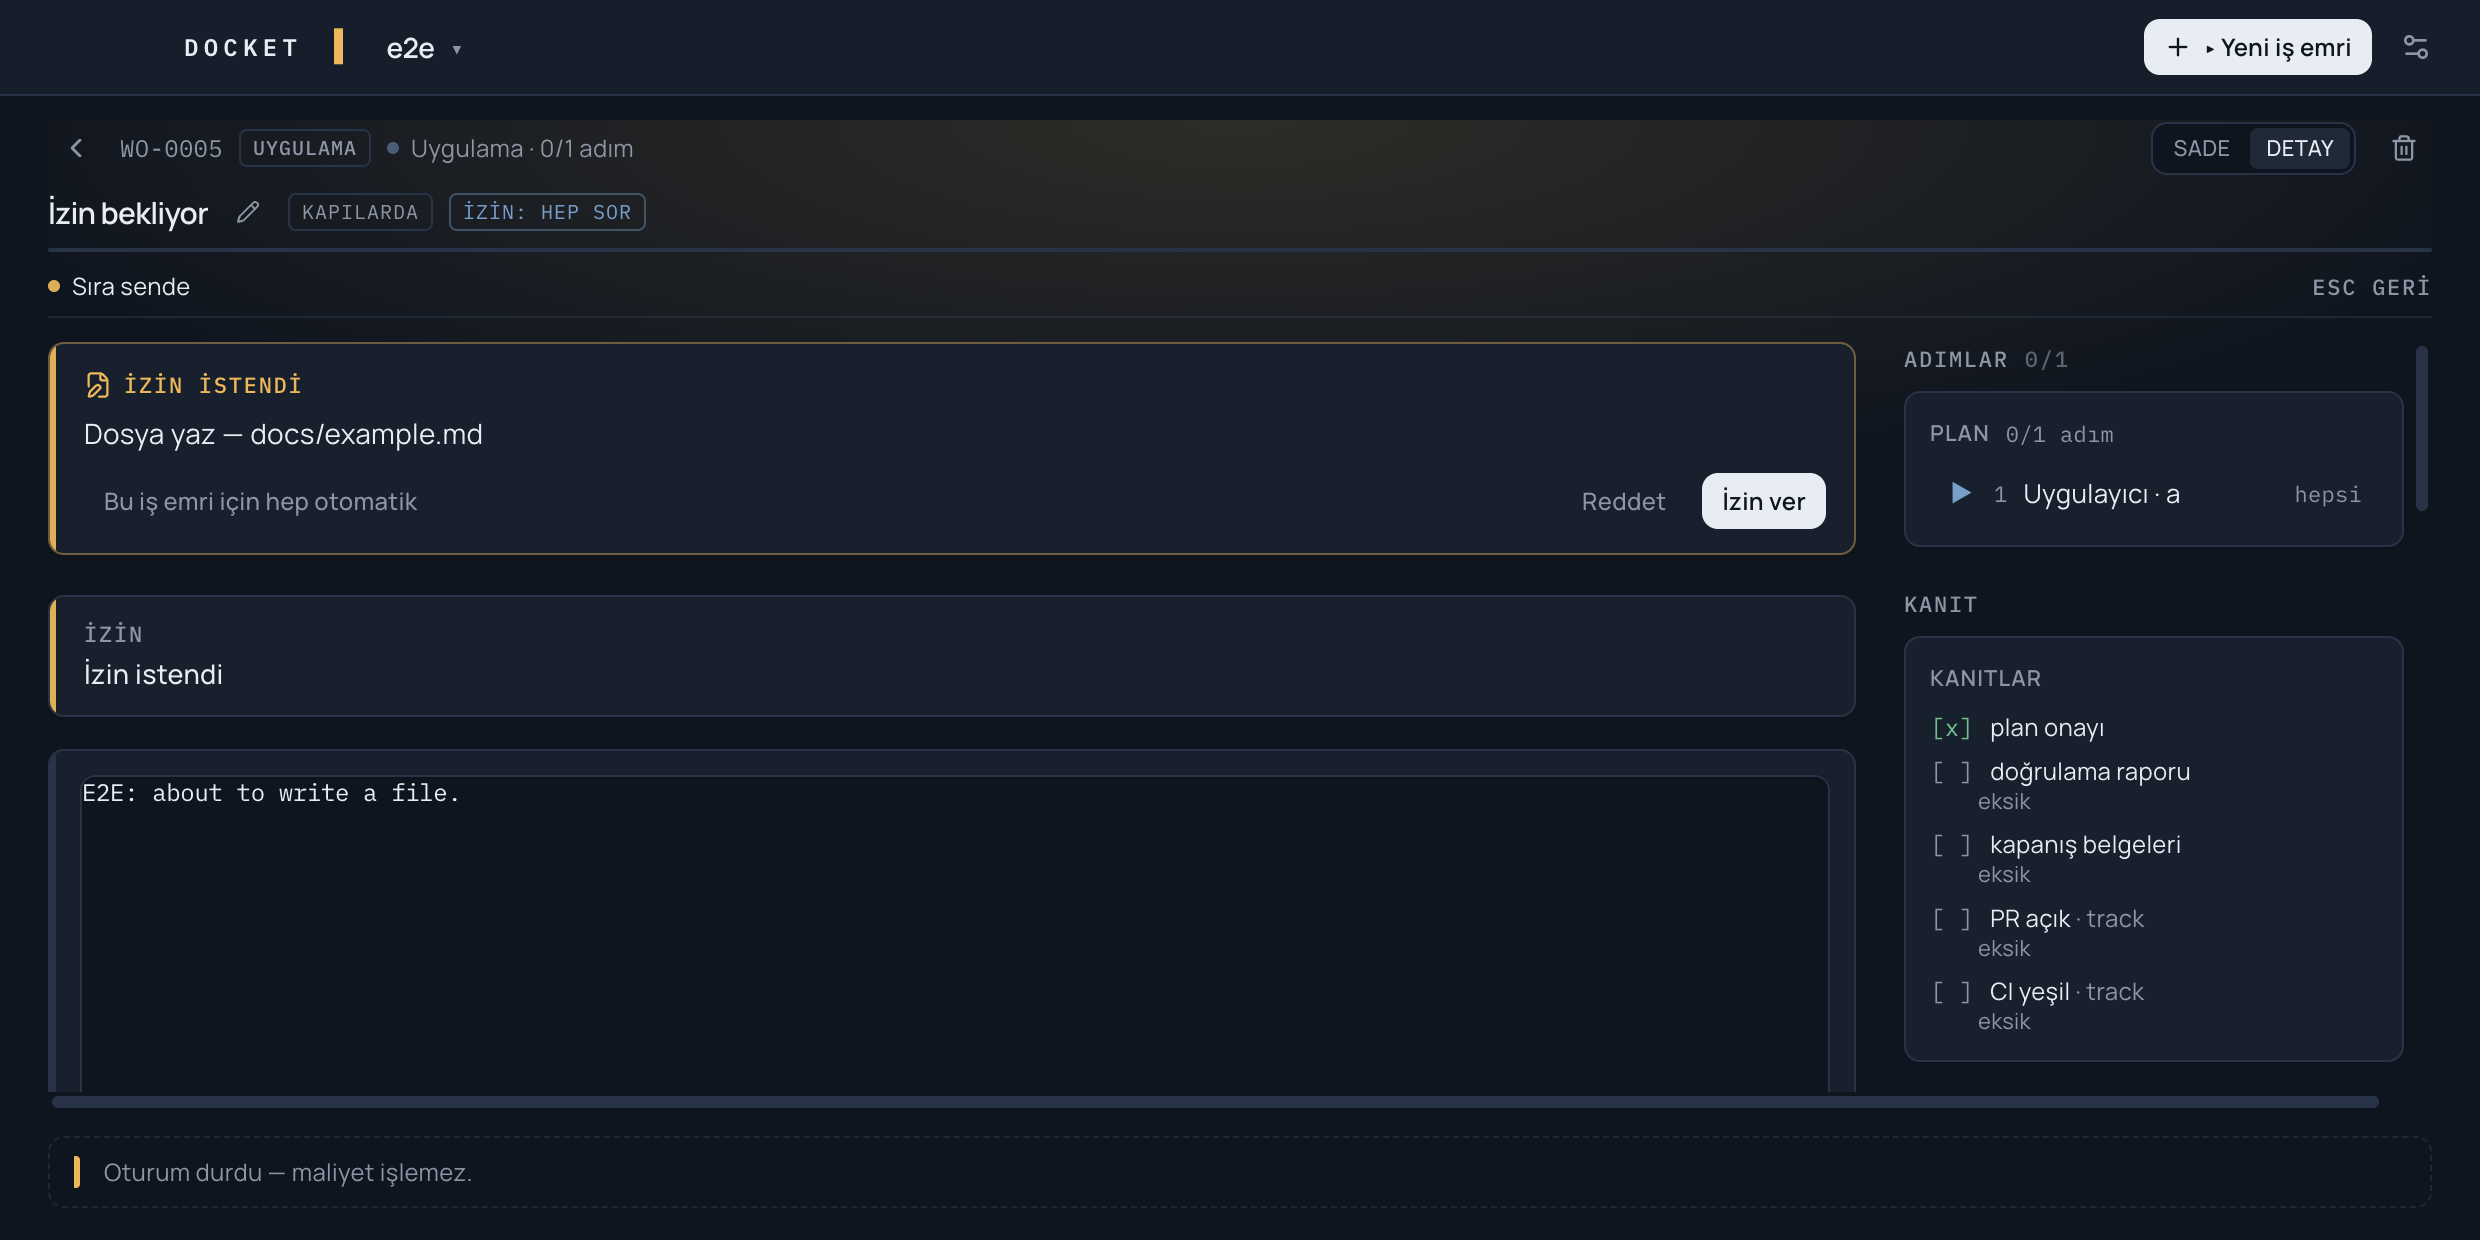
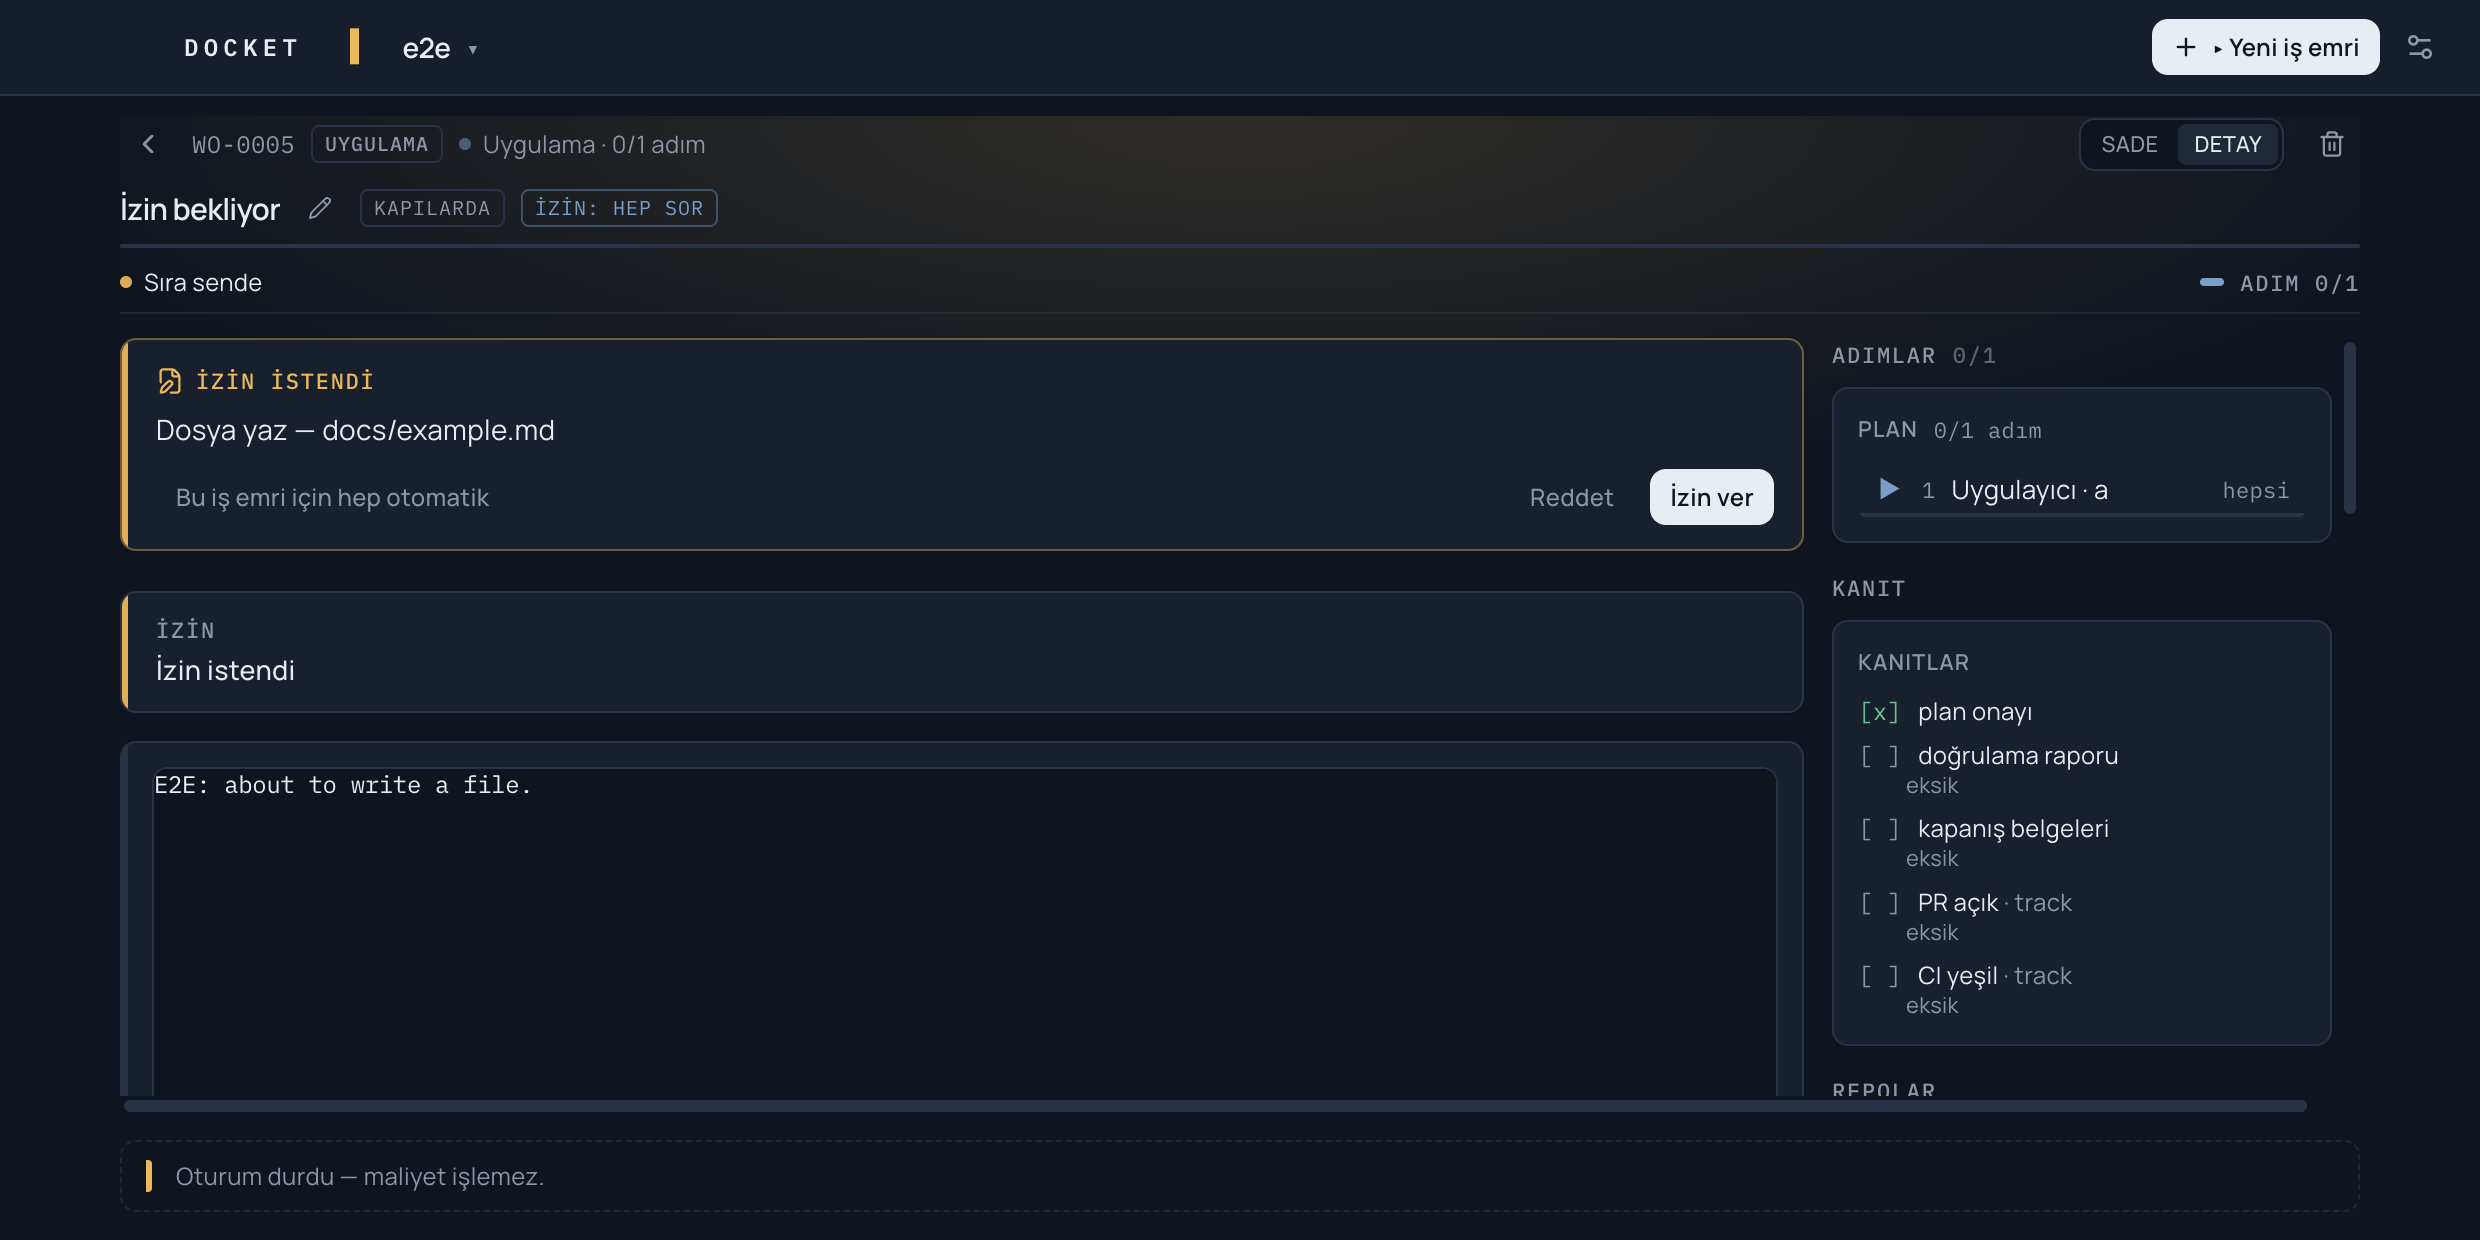
feat(WO-0031d): e2e — segments, gated strip, edit/delete/close dialogs, results card, empty-DB hero
Six new specs (+ two folds): substrip segments replace the esc hint; the strip's
order.md writers are absent with the reason line while a drive runs; Düzenle is
a dialog whose edit persists (title restored for later specs); Sil cascades via
the dialog on the throwaway WO; Kapat has no ⏎ path (Enter in the note input
leaves it open) and the closure results card seals once, calm on reopen; a
second app on a fresh DB renders the real appbar + invitation hero, then the
zero-WO board hero after workspace create. Title-counter assert folds into the
stopped_asking spec; the unscoped 'Bağımsız' ledger row folds into the closed-WO
spec (seed: a cost-less free-form session).

diff --git a/e2e/seed.ts b/e2e/seed.ts
@@ -80,6 +80,17 @@ store.recordSession({
   startedAt: new Date('2026-08-16T14:09:00Z').toISOString(),
   endedAt: new Date('2026-08-16T14:14:00Z').toISOString(),
 });
+// WO-0031d: a free-form (unscoped) implementer run — the ledger names it "Bağımsız", never "Adım 0".
+// No cost → the closed-WO total-cost assert ($6,27) is unchanged.
+store.recordSession({
+  providerSessionId: 'e2e-wo4-free',
+  workOrderId: wo4.id,
+  role: 'implementer',
+  status: 'idle',
+  transcript: [],
+  startedAt: new Date('2026-08-16T14:15:00Z').toISOString(),
+  endedAt: new Date('2026-08-16T14:15:30Z').toISOString(),
+});
 store.recordSession({
   providerSessionId: 'e2e-wo4-run',
   workOrderId: wo4.id,
